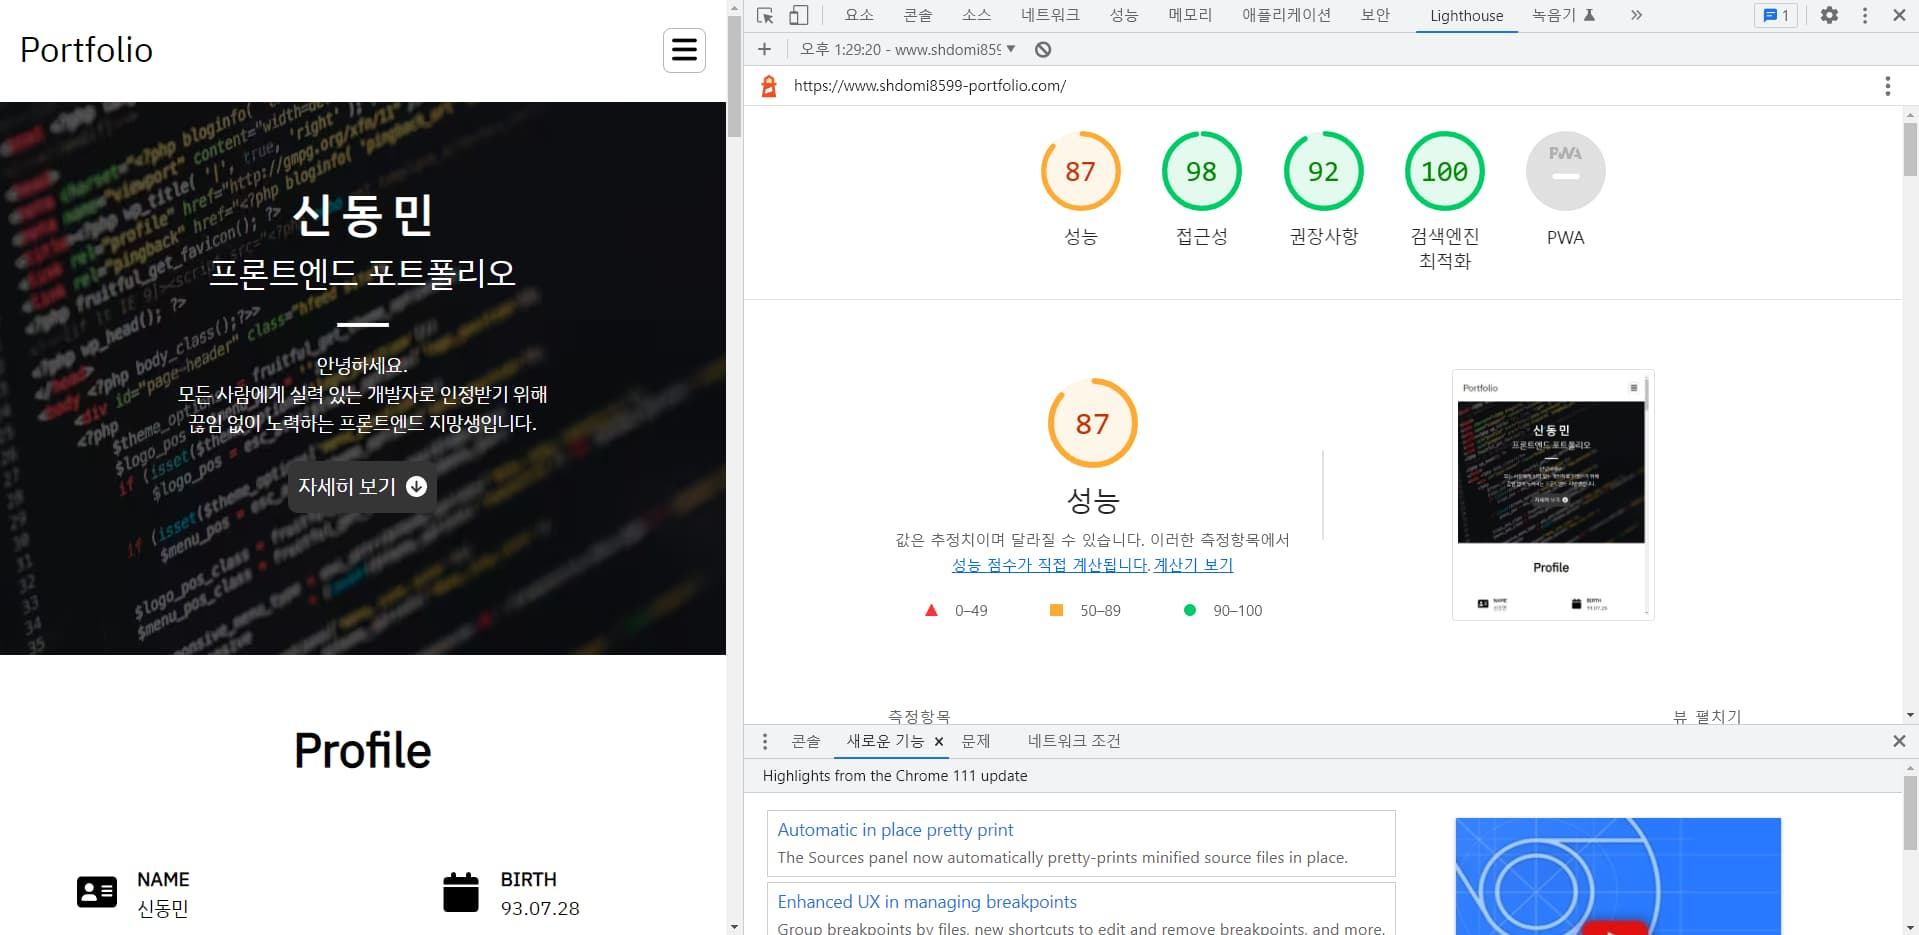
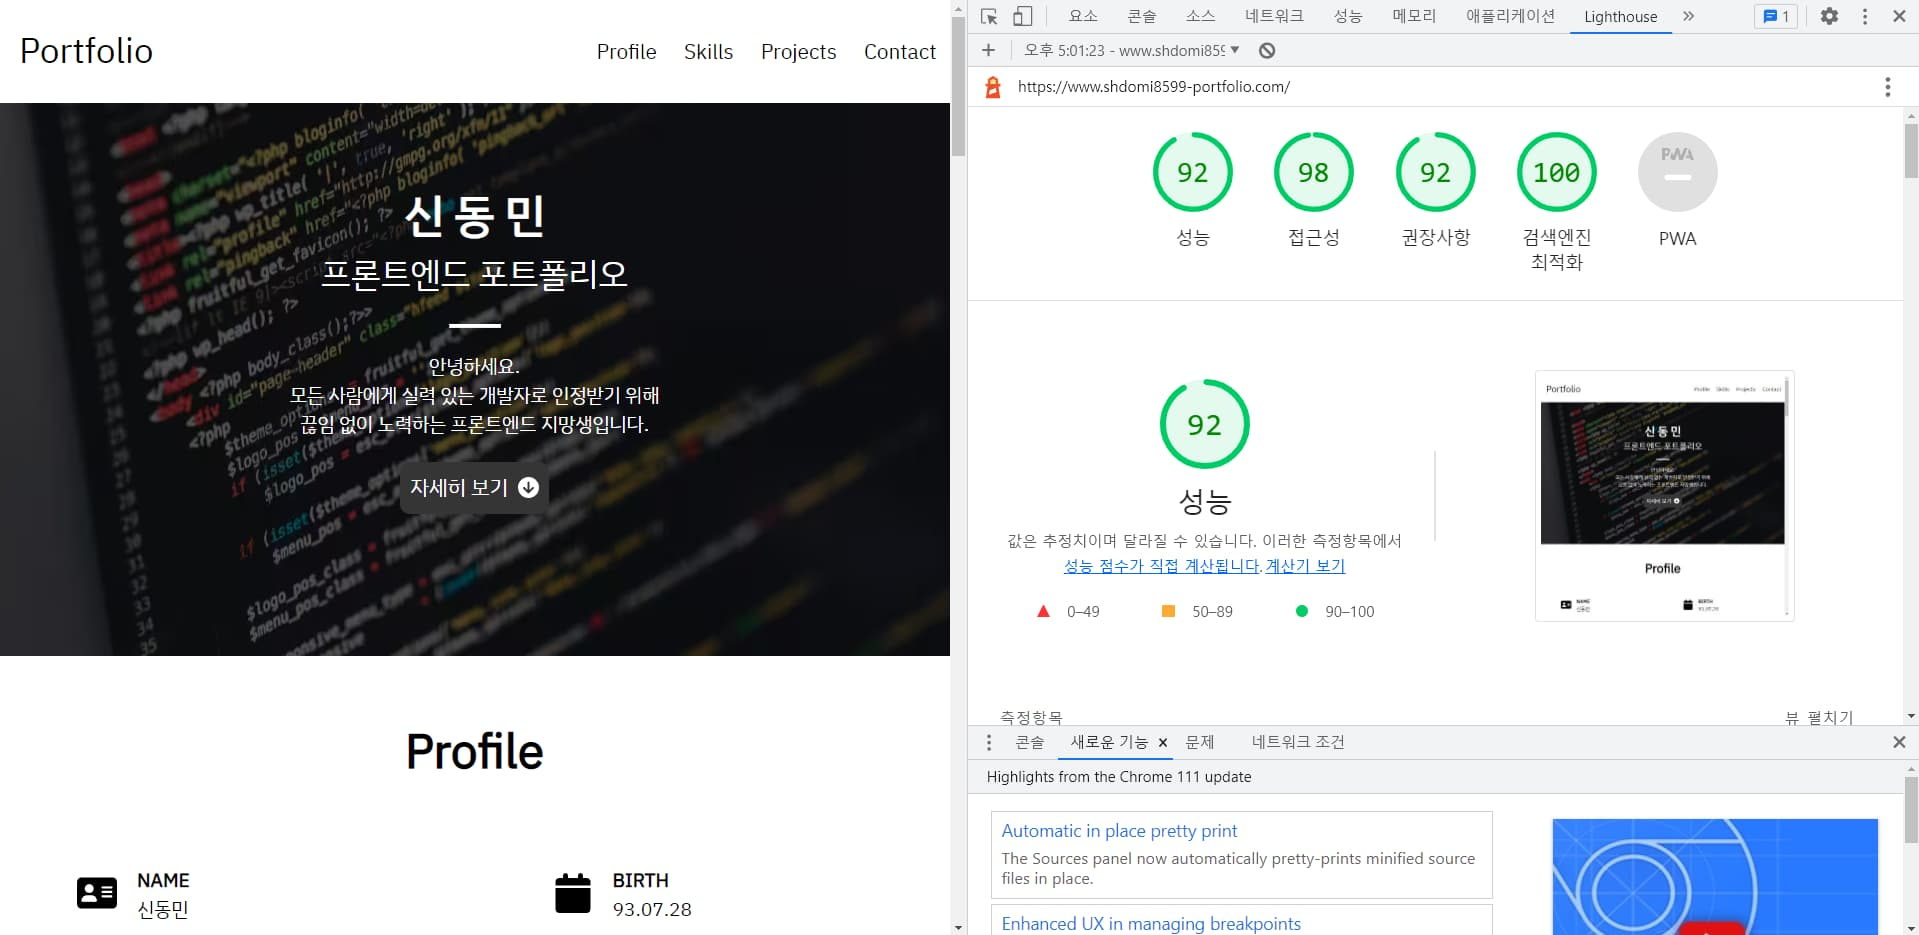
chore : 포트폴리오 성능 향상

diff --git a/pages/_document.tsx b/pages/_document.tsx
@@ -37,6 +37,7 @@ function MyDocument({ styles }: Props) {
           content="프론트엔드 지망생 shdomi8599의 포트폴리오입니다."
         />
         <meta name="twitter:image" content="/mainImg/mainImg.jpg" />
+        <meta name="viewport" content="width=device-width, initial-scale=1" />
         <link rel="canonical" href="https://www.shdomi8599-portfolio.com" />
         <link rel="icon" href="/favicon.png" />
         {styles}

diff --git a/components/section/Projects.tsx b/components/section/Projects.tsx
@@ -1,4 +1,4 @@
-import { useRef, useState } from "react";
+import { useEffect, useRef, useState } from "react";
 import styled from "styled-components";
 import ArticleBox from "../common/ArticleBox";
 import { navProject, projects } from "@/data/projects";

diff --git a/components/common/Carousel.tsx b/components/common/Carousel.tsx
@@ -1,4 +1,3 @@
-/* eslint-disable @next/next/no-img-element */
 import Slider from "react-slick";
 import "slick-carousel/slick/slick.css";
 import "slick-carousel/slick/slick-theme.css";

diff --git a/styles/App.css b/styles/App.css
@@ -4,6 +4,7 @@
     format("woff");
   font-weight: normal;
   font-style: normal;
+  font-display: swap;
 }
 
 * {
